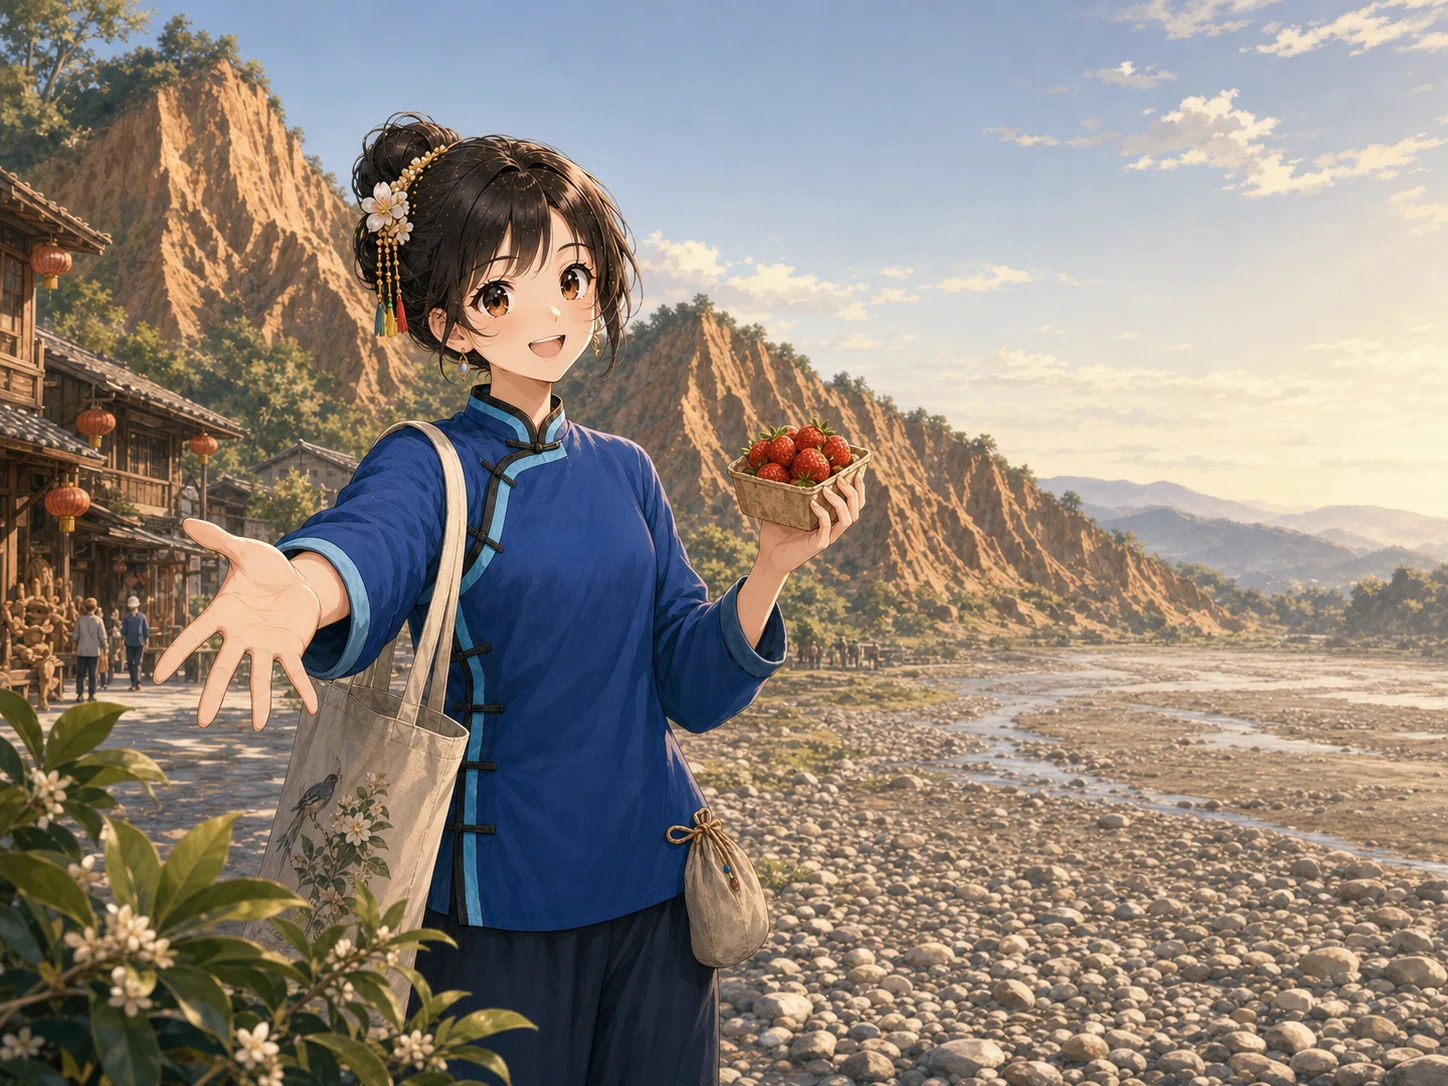
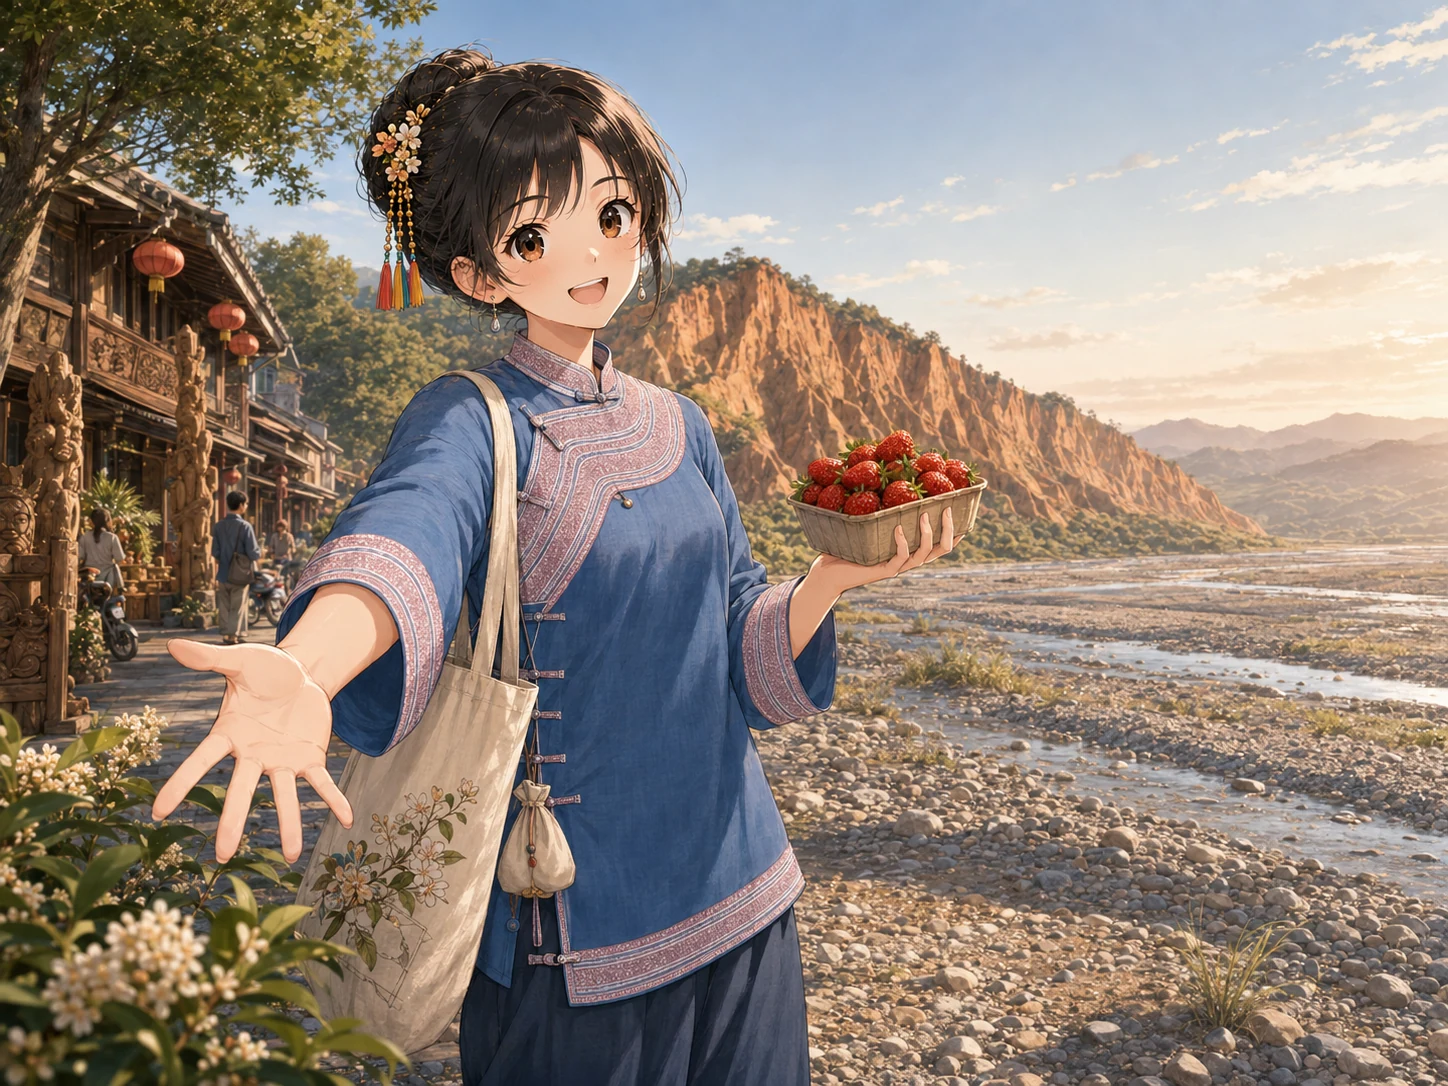
照客委會報告改掉反袖口袋與兩張的搭配，並重畫兩張圖 (#52)
* fix(hakka): 照客委會報告改掉反袖口袋與兩張的搭配，並重畫

讀完報告後逐題自我校對，原本要問鄭惠美教授的六題有四題她書裡已經回答，
其中兩題直接推翻現行畫法。

**一、反袖口袋拿掉。** 報告第一章寫六堆藍衫「袖口反折作為『反袖口袋』」，
第二章寫北客「袖口部份不一定有反折，有反折者也不作反袖口袋使用」，
文物卡 200-017 與 200-023 又各寫一次。反袖口袋是六堆的做法；
臺史博 11000011845 那句「袖子反折成為挽袖口袋」是館方描述用了六堆的說法。
outfit 改成明講是單純反折、不是口袋，並禁止畫出蓋、開口與扣合。

**二、兩張的搭配對調。** 如意雲頭那一型在報告裡兩件都在苗栗：200-016
來源地點苗栗客家地區，200-024（苗栗地區）寫「大襟鑲緄在腋下部份呈弧形，
為傳統如意雲頭紋的簡化形式」。原本把如意雲頭配給新竹，跟報告反了兩次。
現在苗栗接如意雲頭（國史館 107000027594），新竹接黑配水藍兩道未加闌干
（臺史博 11000011845）。costume_refs 一併對調，costume-refs.html 讀
counties.json 所以並排頁自動跟著換。

**三、提花織帶誤植。**「外緣加提花織帶，寬約 1-2.5 公分」出自報告第一章
「六堆客家服飾特色」，是六堆的規則，先前被抄進通用技法欄再套到北客身上。
已在 costume.json 標明並說明北客的牙邊不限於提花織帶。

**四、小立領怎麼畫。** 文物卡說客家的特色顯現在「小立領的形態、製作以及
短內襟的結構」但沒說形態差在哪。卡上量到立領高 1cm（200-005）、3cm
（200-007）、領圍 29-32cm，對上國史館那件閩籍大襟衫記 1910 年後
「立領高約 3-4cm……甚至高達 7-8cm」的元寶領，分辨點是領子低而小。

兩張都重畫。新竹取第一輪；苗栗前三輪的緄邊都畫成暗紅捲草，把顏色條款寫嚴
（淡粉紅、白點、忌暗紅／捲草／滿版繡片／對稱肩襠）後重跑，取新的第一輪，
直布扣是短橫布條而非盤扣感。

另：「兩縣對調過」那句歷史從 checklist 移到 pitfalls。留在驗收條目裡會讓
vision 拿舊配法去對圖，實測誤判了兩次。

* chore(pwa): 更新 service worker 的內容雜湊

兩張客家底圖換了，離線快取要跟著換版，否則裝過的使用者看到的還是舊圖。

---------

diff --git a/sw.js b/sw.js
@@ -8,7 +8,7 @@
  * SHELL_V 由 tools/build_sw.py 依 precache 清單的內容 hash 產生，不要手改。
  * 手動 bump 的遲早會忘記，而忘記的症狀是「使用者永遠看不到新版」，沒有任何徵兆。
  */
-const SHELL_V = "shell-34399ab";
+const SHELL_V = "shell-83d2d46";
 const ASSET_V = "asset-b439ace";
 
 // 前綴要跨專案唯一。CacheStorage 是 per-origin，yazelin.github.io 底下所有專案
